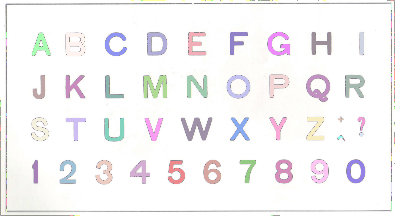
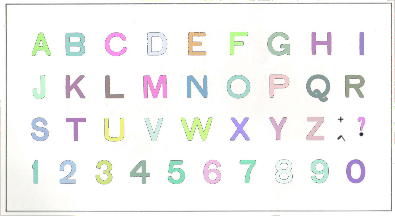
clusters complete!

diff --git a/lib/cluster.js b/lib/cluster.js
@@ -23,7 +23,49 @@ Cluster.prototype.addPixel = function(pixel_data){
 
 }
 Cluster.prototype.getBounds = function(){
-    //TODO: Write this
+    var max_row = null;
+    var min_row = null;
+    var max_col = null;
+    var min_col = null;
+    for(var row in this.pixels){
+        if(!max_row || max_row < row){
+            max_row = row;
+        }
+        if(!min_row || min_row > row){
+            min_row = row;
+        }
+        for(var col in this.pixels[row]){
+            if(!max_col || max_col < col){
+                max_col = col;
+            }
+            if(!min_col || min_col > col){
+                min_col = col;
+            }
+        }
+    }
+
+
+    return {
+        rows:{
+            max:max_row,
+            min:min_row
+        },
+        cols:{
+            max:max_col,
+            min:min_col
+        }
+    }
+}
+Cluster.prototype.width = function(){
+
+    var bounds = this.getBounds();
+    return bounds.cols.max - bounds.cols.min;
+
+}
+Cluster.prototype.height = function(){
+
+    var bounds = this.getBounds();
+    return bounds.rows.max - bounds.rows.min;
 }
 Cluster.prototype.expand = function(start_pixel){
     var grid = this.grid;

diff --git a/lib/index.js b/lib/index.js
@@ -5,8 +5,9 @@ var Canvas = require('canvas')
 var Cluster  = require('./cluster');
 module.exports = function(options){
     var defaults = {
-        tollerence: 5,
-        scale:.2
+        tollerence: 3,
+        scale:.2,
+        min_size:10
     }
     _.extend(options, defaults);
     var ctx = null;
@@ -97,6 +98,14 @@ module.exports = function(options){
                 }
             ],
             function(){
+                //Check min size
+                var _clusters = []
+                for(var i in clusters){
+                    if(clusters[i].width() > options.min_size || clusters[i].height() > options.min_size){
+                        _clusters.push(clusters[i]);
+                    }
+                }
+                clusters = _clusters;
                 console.log("End!!!!");
                 console.log("Row Count:" + grid.length + ' ?==? Image Height: ' + img.height);
                 console.log("Cluster Count:" + clusters.length);
